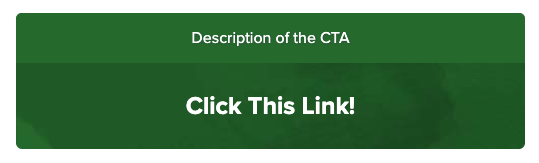
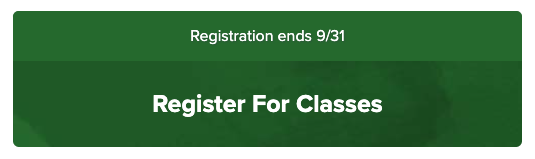
More work on paragraphs and organization

diff --git a/source/stylesheets/site.css.scss b/source/stylesheets/site.css.scss
@@ -12,5 +12,5 @@
 }
 
 img {
-  border: 2px solid black;
+  border: 1px solid black;
 }

diff --git a/content-style-guide/09-working-with-paragraphs.html.md b/content-style-guide/09-working-with-paragraphs.html.md
@@ -1,35 +1,28 @@
 ---
 title: Working With Paragraphs
 layout: article
-category: Paragraphs
+category: About Drupal
 ---
 
 When creating or editing Page content, you will have the opportunity to work with Paragraphs. Pargraphs are just what they sound like - chunks of content that can be arranged to present information in different ways. 
 
 *There should at some point be some details here about how paragraphs can be arranged, how they work in relation to the main page content, etc.*
 
-There are several different types of Paragraphs you can work with, each with their own appearance and options. 
-
-* [Article Listing](#article-listing)
-* [Call to Action](#call-to-action)
-* [Callout Box](#callout-box)
-* [Compound](#compound)
-* [Event Calendar](#event-calendar)
-* [Form](#form)
-* [Gallery](#gallery)
-* [General Content](#general-content)
-* [List of Documents](#list-of-documents)
-* [List of Links](#list-of-links)
-* [Sequential Steps](#sequential-steps)
-* [Staff Listing](#staff-listing)
+There are several different types of Paragraphs you can work with, each with their own appearance and options. The section Paragraph Types goes into more detail on each type if you want more information on how they can be created or displayed.
 
 ## Article Listing
 
 ## Call to Action
+A **Call To Action** (or CTA for short) is a link which directs the user to take an action of some sort. An example would be "Register For Classes" or "Sign Up For Our Mailing List". These are rendered as buttons on the website. CTAs can have an optional description which displays above the main link in smaller type.
+
 ![Example of the Call to Action Paragraph type](paragraphs--call-to-action.png)
 
 ## Callout Box
+A **Callout Box** is used to make information stand out on the page. Callout Boxes have three types: Alert, Aside, and Interrupt.
+
 ![Example of the Callout Box Paragraph type](paragraphs--callout-box.png)
+
+[More information on creating Callout Boxes](093-callout-box.html)
 
 ## Compound
 

diff --git a/content-style-guide/093-callout-box.html.md b/content-style-guide/093-callout-box.html.md
@@ -1,0 +1,32 @@
+---
+title: Callout Box
+layout: article
+category: Paragraph Types
+---
+
+A Callout Box is used to make information stand out on the page. When a Callout Box is used, the content inside it is surrounded with a special background and highlighted in such a way that it breaks the flow of the main content. When you create a Callout Box you have two options:
+
+**Box Type:** This controls how the Callout Box is displayed on the page. The three options are Alert, Aside, and Interupt. The differences between these are described below.
+
+**Content:** This is where you enter the content for the Callout Box. This includes any headlines, text, or images you want to be part of your callout. All of the same formatting options are available here as in other text fields throughout the site.
+
+*[admin screenshot]*
+
+##Callout Box Types
+
+### Alert
+Alerts boxes are displayed with a reddish/orange background and appear centered within the content on a page. 
+
+!["Screenshot of a Callout Box in the Alert style"](paragraphs--callout-box-alert.png)
+
+### Aside
+Aside boxes are displayed with a blue background and float to the right of the content on the page, with the content wrapping around them.
+
+!["Screenshot of a Callout Box in the Alert style"](paragraphs--callout-box-aside.png)
+
+### Interrupt
+Interrupt boxes are displayed with a blue background and display the entire width of a browser window, past the edges of the main content on both sides.
+
+!["Screenshot of a Callout Box in the Alert style"](paragraphs--callout-box-interrupt.png)
+
+

diff --git a/content-style-guide/11-creating-blog-posts-or-news-articles.html.md b/content-style-guide/11-creating-blog-posts-or-news-articles.html.md
@@ -1,7 +1,7 @@
 ---
-title: Creating Blog Posts or News Articles
+title: Blog Posts or News Articles
 layout: article
-category: Types of Content
+category: Content Types
 ---
 
 At Mailchimp, technical content appears primarily in our [guides and tutorials](https://mailchimp.com/help/). This section will lay out the guiding principles of technical content, discuss the main types of technical content, and outline the process of writing and editing technical articles.

diff --git a/content-style-guide/10-creating-basic-pages.html.md b/content-style-guide/10-creating-basic-pages.html.md
@@ -1,7 +1,7 @@
 ---
-title: Creating Basic Pages
+title: Basic Pages
 layout: article
-category: Types of Content
+category: Content Types
 ---
 
 Every page has fields that hold the different pieces of information or "fields" that make up a page. The exact fields vary to match the content type.

diff --git a/content-style-guide/099-list-of-documents.html.md b/content-style-guide/099-list-of-documents.html.md
@@ -1,0 +1,5 @@
+---
+title: List of Documents
+layout: article
+category: Paragraph Types
+---

diff --git a/content-style-guide/0992-sequential-steps.html.md b/content-style-guide/0992-sequential-steps.html.md
@@ -1,0 +1,5 @@
+---
+title: Sequential Steps
+layout: article
+category: Paragraph Types
+---

diff --git a/content-style-guide/091-article-listing.html.md b/content-style-guide/091-article-listing.html.md
@@ -1,0 +1,5 @@
+---
+title: Article Listing
+layout: article
+category: Paragraph Types
+---

diff --git a/content-style-guide/098-general-content.html.md b/content-style-guide/098-general-content.html.md
@@ -1,0 +1,5 @@
+---
+title: General Content
+layout: article
+category: Paragraph Types
+---

diff --git a/content-style-guide/092-call-to-action.html.md b/content-style-guide/092-call-to-action.html.md
@@ -1,0 +1,5 @@
+---
+title: Call to Action
+layout: article
+category: Paragraph Types
+---

diff --git a/content-style-guide/095-event-calendar.html.md b/content-style-guide/095-event-calendar.html.md
@@ -1,0 +1,5 @@
+---
+title: Event Calendar
+layout: article
+category: Paragraph Types
+---

diff --git a/content-style-guide/0991-list-of-links.html.md b/content-style-guide/0991-list-of-links.html.md
@@ -1,0 +1,5 @@
+---
+title: List of Links
+layout: article
+category: Paragraph Types
+---
